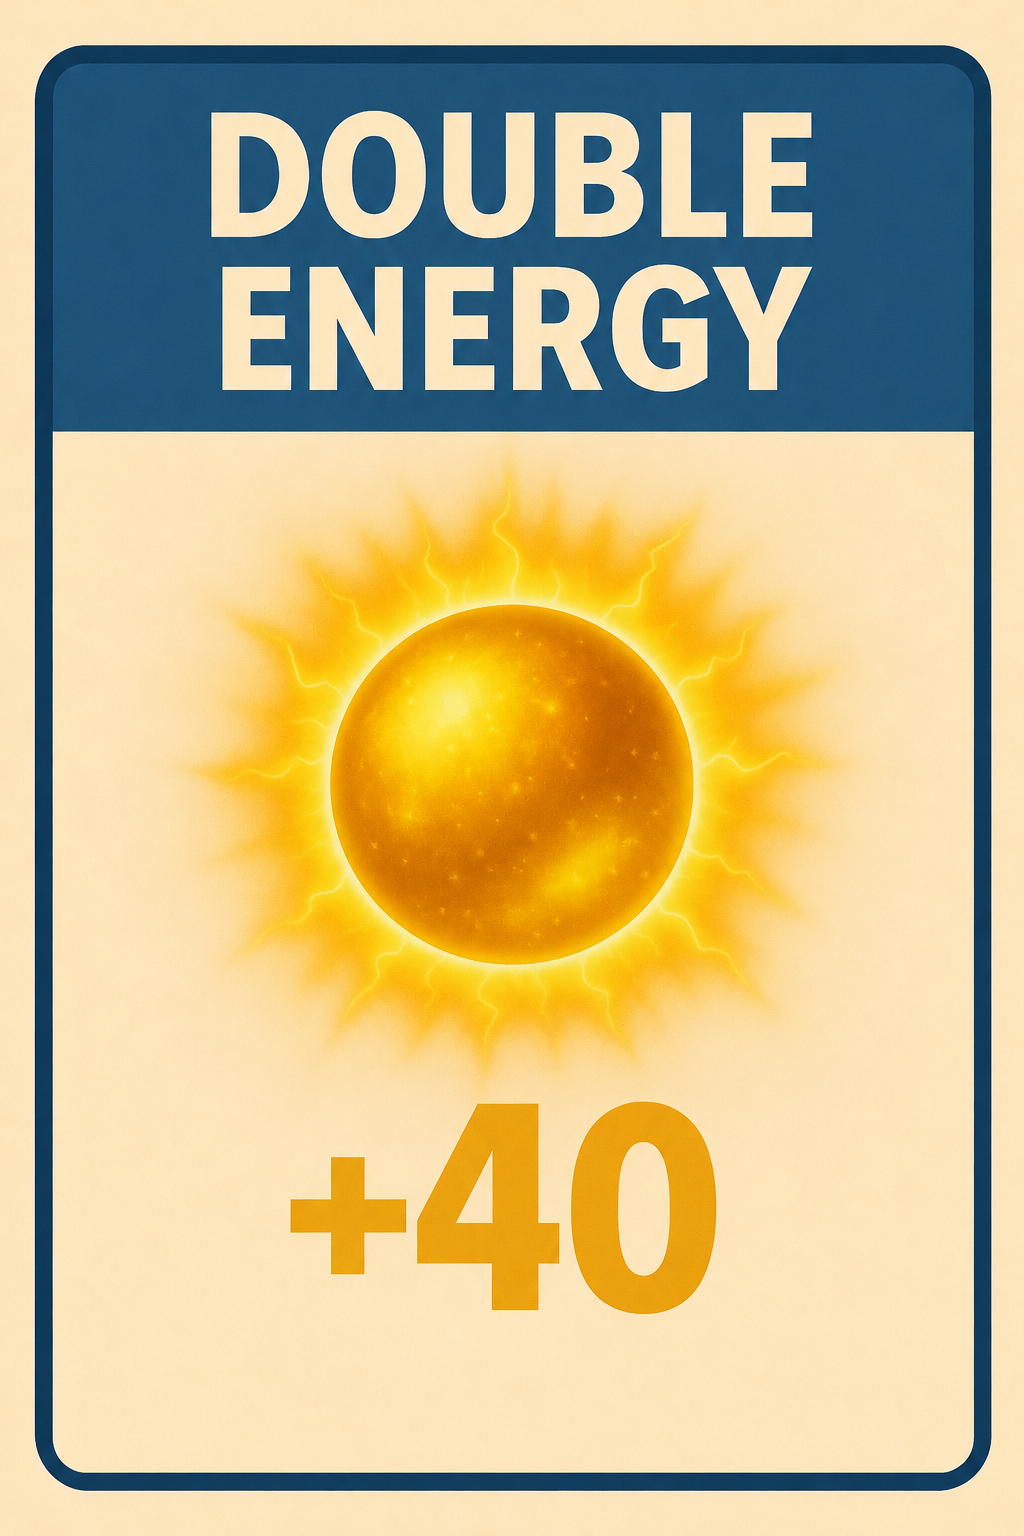
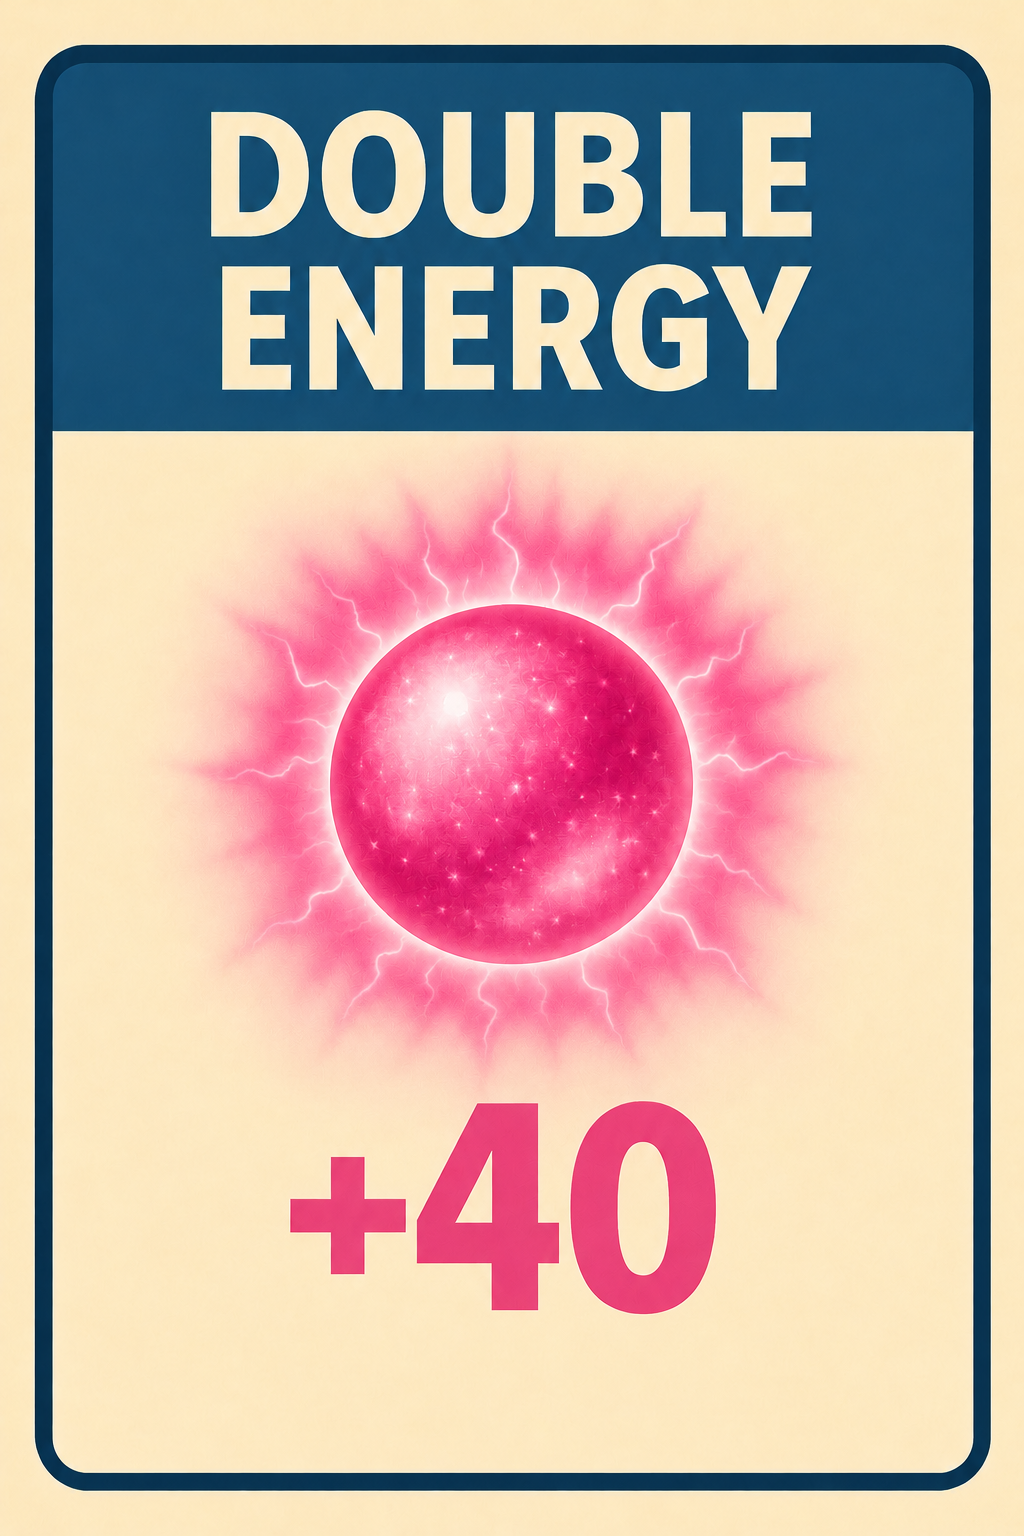
fix: pink 40 energy card [actor=bot approval=user trigger=pink40]

diff --git a/reports/light-v1/REVIEW.md b/reports/light-v1/REVIEW.md
@@ -106,3 +106,8 @@ Checks: typecheck and component ESLint pass; Expo export passes. Browser 390×84
 - User requested missing 40 card. Built-in image_gen edit of energy-20.jpg saved as assets/cards/energy-math/energy-40.png; visually confirmed +40, golden orb, teal frame and DOUBLE ENERGY heading.
 - Prompt: Edit supplied golden DOUBLE ENERGY counting card; single portrait 2:3; change ONLY bottom +20 to +40; preserve heading, cream texture, teal frame/header, golden orb, layout, typography and colors; full uncropped card. Arithmetic denomination only, not new reward rule.
 - Registered 40 image in EnergyMath; 40–49 balances now use this card. No balance/reward/storage changes. Typecheck, component ESLint and production web export passed.
+
+## 40 card pink correction
+- User requested pink instead of gold. Built-in image_gen edited energy-40.png, visually verified pink orb/aura/+40 and unchanged navy frame, cream background and exact heading/denomination. File: assets/cards/energy-math/energy-40.png. Original gold retained in git history and generated output.
+- Prompt: Edit exact +40 card; change only golden orb, radiant glow/lightning and +40 to luminous rose pink, soft blush aura, readable rich pink text; preserve cream background, dark teal/navy border/header, DOUBLE ENERGY, +40, layout, orb size and portrait 2:3; no yellow/gold in orb/glow; full uncropped single card.
+- Asset-only correction; arithmetic and rewards unchanged.
